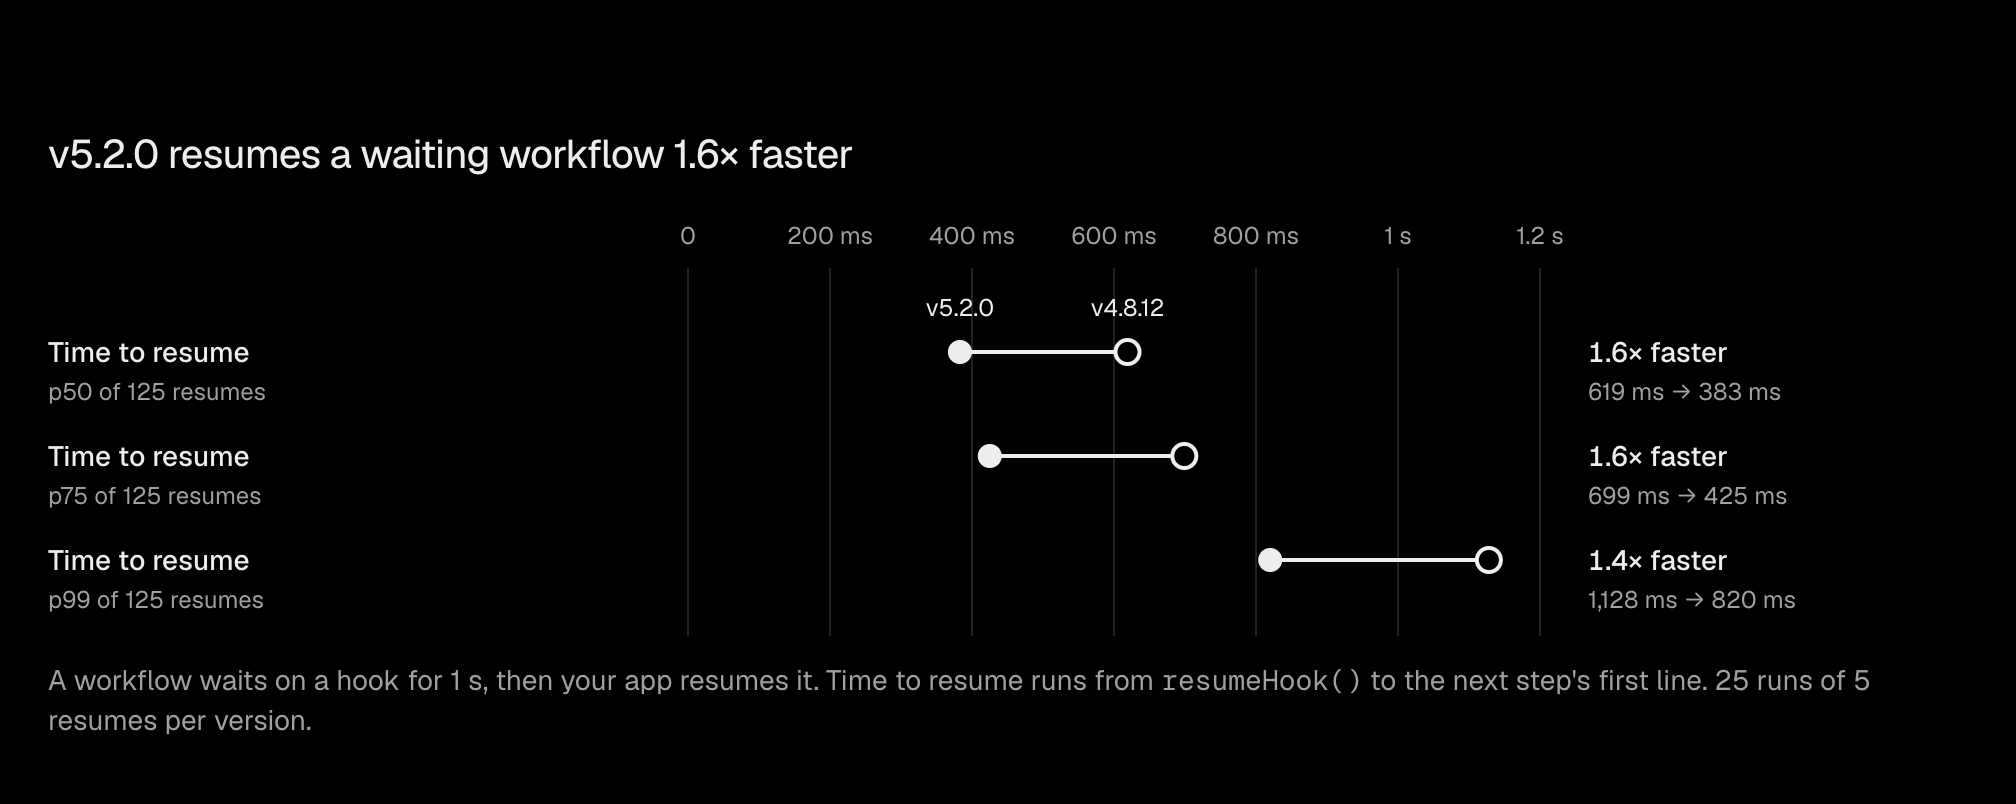
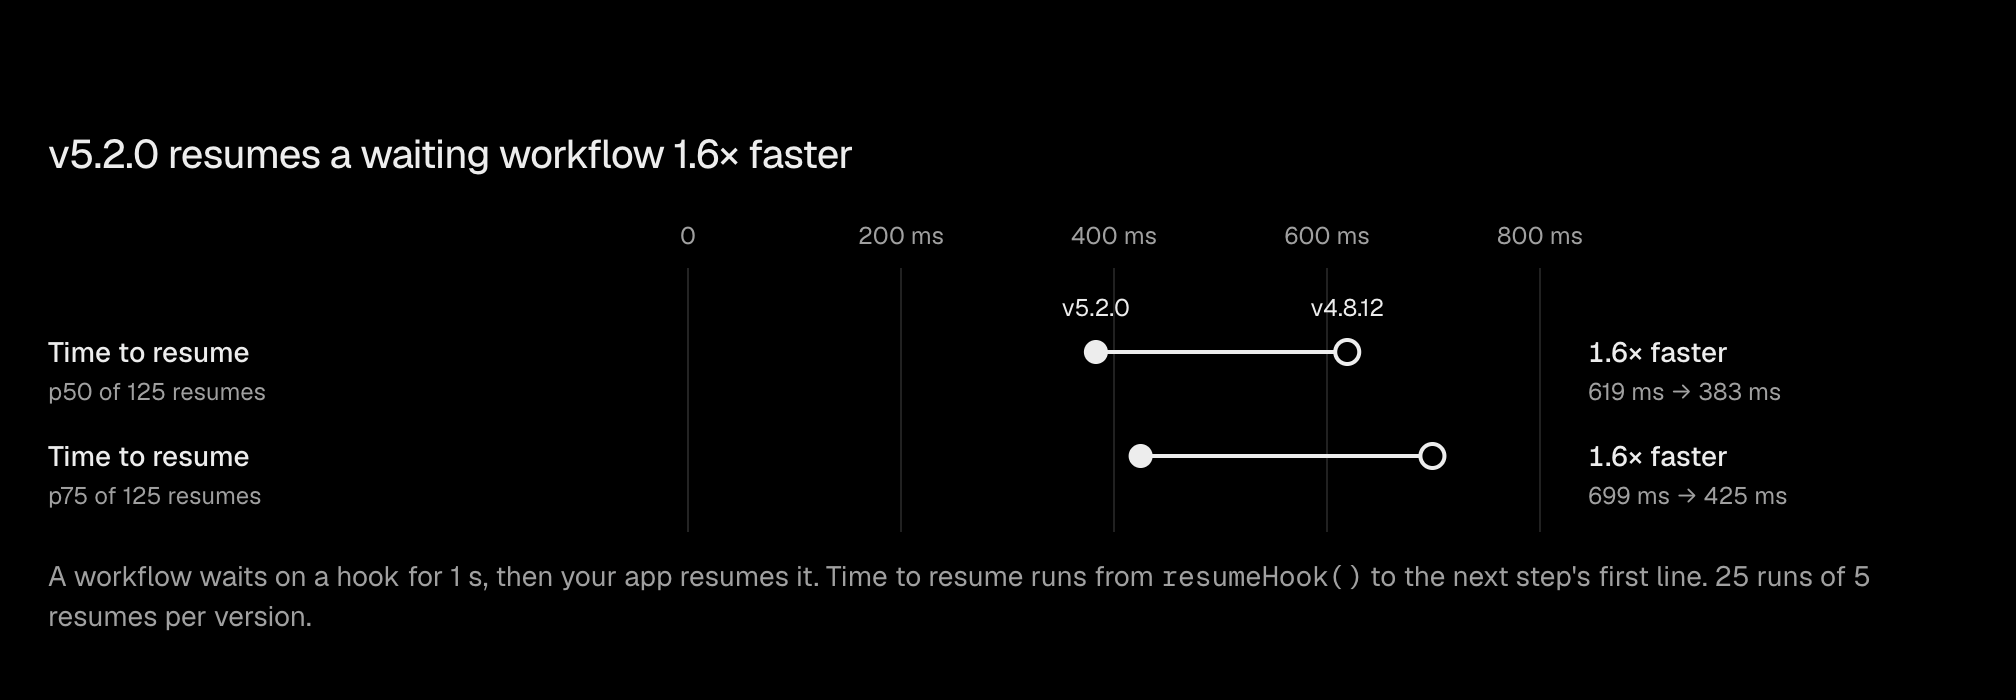
[docs] Show only the five-step p99s and lead What's new with the headline chart
The Performance page and its figures now report a p99 only for the five-step
workflow (time to first step and step-to-step overhead). The other p99 rows,
the fan-out p99 sentence and the resume figure's p99 row are gone, and the
slowest fan-out branch reads as starting at about the same time. What's new
opens "Faster and cheaper runs" with the headline chart.

diff --git a/docs/lib/performance/index.ts b/docs/lib/performance/index.ts
@@ -61,13 +61,11 @@ export const change = (v4: number, next: number) => {
 const { timing, deep, parallel, resume, stream } = metrics.workloads;
 
 /**
- * p99 policy: a p99 is reported when it changed by more than 5% and, if the newer version is
- * slower, the regression reproduced in a second sweep. For the latest results the reference
- * is an earlier sweep the same day (2026-10-08): the slowest fan-out branch had 2 of 25 runs
- * above the older version's p99 in both sweeps, so it is reported. The fan-out join (1,472 ms
- * against 712 ms here, 650 ms against 637 ms before) did not reproduce, so its p99 is left out.
+ * p99 policy: the docs show a p99 only for the five-step workflow (time to first step and
+ * step-to-step overhead), and only where it changed by more than 5% in the newer version's
+ * favor. Every other percentile on the page is a p50 or p75.
  */
-const reproducibleP99Regressions = new Set<P99Key>(['fanoutLast']);
+const publishedP99 = new Set<P99Key>(['ttfs', 'stso']);
 
 export const p99 = {
   ttfs: { v4: timing.v4.ttfs.p99, next: timing.next.ttfs.p99 },
@@ -83,7 +81,7 @@ export const p99 = {
 export type P99Key = keyof typeof p99;
 
 export const showP99 = (key: P99Key) => {
+  if (!publishedP99.has(key)) return false;
   const { v4, next } = p99[key];
-  if (isSame(v4, next)) return false;
-  return !isSlower(v4, next) || reproducibleP99Regressions.has(key);
+  return !isSame(v4, next) && !isSlower(v4, next);
 };

diff --git a/docs/scripts/generate-performance.ts b/docs/scripts/generate-performance.ts
@@ -102,7 +102,7 @@ const sequential = `At p75, a five-step workflow reaches its first step in ${ms(
 const longRun = `Through a 1,020-step run, step-to-step overhead on ${OLD} grows from ${ms(D.v4.early.p75)} in steps 1 to 20 to ${ms(D.v4.late.p75)} in steps 1,001 to 1,020, at p75. On ${NEW} it is ${ms(D.next.early.p75)} and ${ms(D.next.late.p75)}. The median run takes ${min(D.v4.wall.p50)} on ${OLD} and ${min(D.next.wall.p50)} on ${NEW}.`;
 
 const fanout = [
-  `At p75, ${NEW} starts the first of 64 branches in ${ms(P.next.first.p75)} against ${ms(P.v4.first.p75)} on ${OLD}, then starts the slowest branch at ${ms(P.next.last.p75)} against ${ms(P.v4.last.p75)} and joins in ${ms(P.next.join.p75)} against ${ms(P.v4.join.p75)}.`,
+  `At p75, ${NEW} starts the first of 64 branches in ${ms(P.next.first.p75)} against ${ms(P.v4.first.p75)} on ${OLD}, then starts the slowest branch ${isSame(P.v4.last.p75, P.next.last.p75) ? `at about the same time (${ms(P.next.last.p75)} against ${ms(P.v4.last.p75)})` : `at ${ms(P.next.last.p75)} against ${ms(P.v4.last.p75)}`} and joins in ${ms(P.next.join.p75)} against ${ms(P.v4.join.p75)}.`,
   showP99('fanoutLast') && isSlower(p99.fanoutLast.v4, p99.fanoutLast.next)
     ? `At p99, the slowest branch starts later on ${NEW}: ${ms(p99.fanoutLast.next)} against ${ms(p99.fanoutLast.v4)} on ${OLD}, a gap that reproduced in a second sweep.`
     : '',
